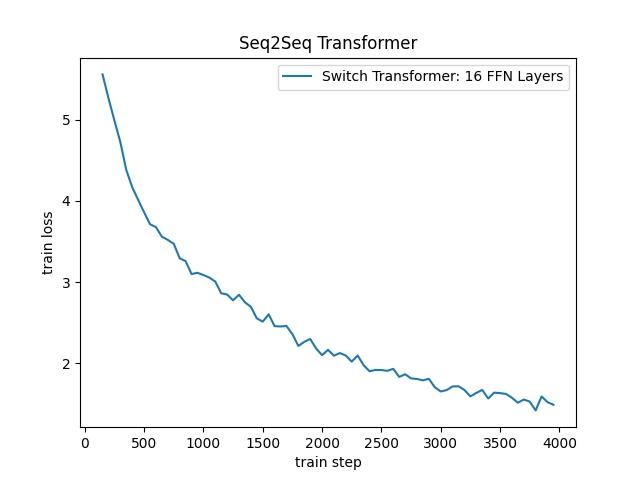
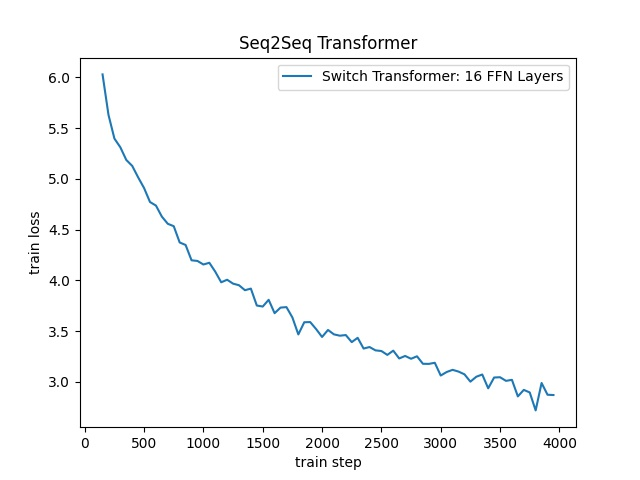
experiments with learning rate modifiers in torch

diff --git a/engine.py b/engine.py
@@ -1,11 +1,12 @@
+from torch.optim import Optimizer, Adam
+from torch.optim.lr_scheduler import ReduceLROnPlateau
+
 import config
 import data
 import model
 import torch
 from tqdm import tqdm
 import numpy as np
-
-
 INPUT_DIM = len(data.SRC.vocab)
 OUTPUT_DIM = len(data.TRG.vocab)
 TRG_PAD_IDX = data.TRG.vocab.stoi[data.TRG.pad_token]
@@ -39,7 +40,7 @@ decoder = model.Decoder(output_dim=OUTPUT_DIM,
 
 seq_2_seq = model.Seq2Seq(encoder, decoder, SRC_PAD_IDX, TRG_PAD_IDX, config.DEVICE).to(config.DEVICE)
 
-optimizer = torch.optim.Adam(seq_2_seq.parameters(), lr=config.LR)
+optimizer = torch.optim.Adamax(seq_2_seq.parameters(), lr=config.LR)
 criterion = torch.nn.CrossEntropyLoss(ignore_index=TRG_PAD_IDX)
 
 
@@ -101,3 +102,5 @@ def eval_fn(init_checkpoint=None):
             epoch_loss += loss.item()
 
     return epoch_loss / len(val_iterator)
+
+

diff --git a/data.py b/data.py
@@ -4,8 +4,8 @@ import torch
 from torchtext.datasets import TranslationDataset, Multi30k
 from torchtext.data import Field, BucketIterator
 
-spacy_de = spacy.load('de')
-spacy_en = spacy.load('en')
+spacy_de = spacy.load('de_core_news_sm')
+spacy_en = spacy.load('en_core_web_sm')
 
 
 def tokenize_de(text):
